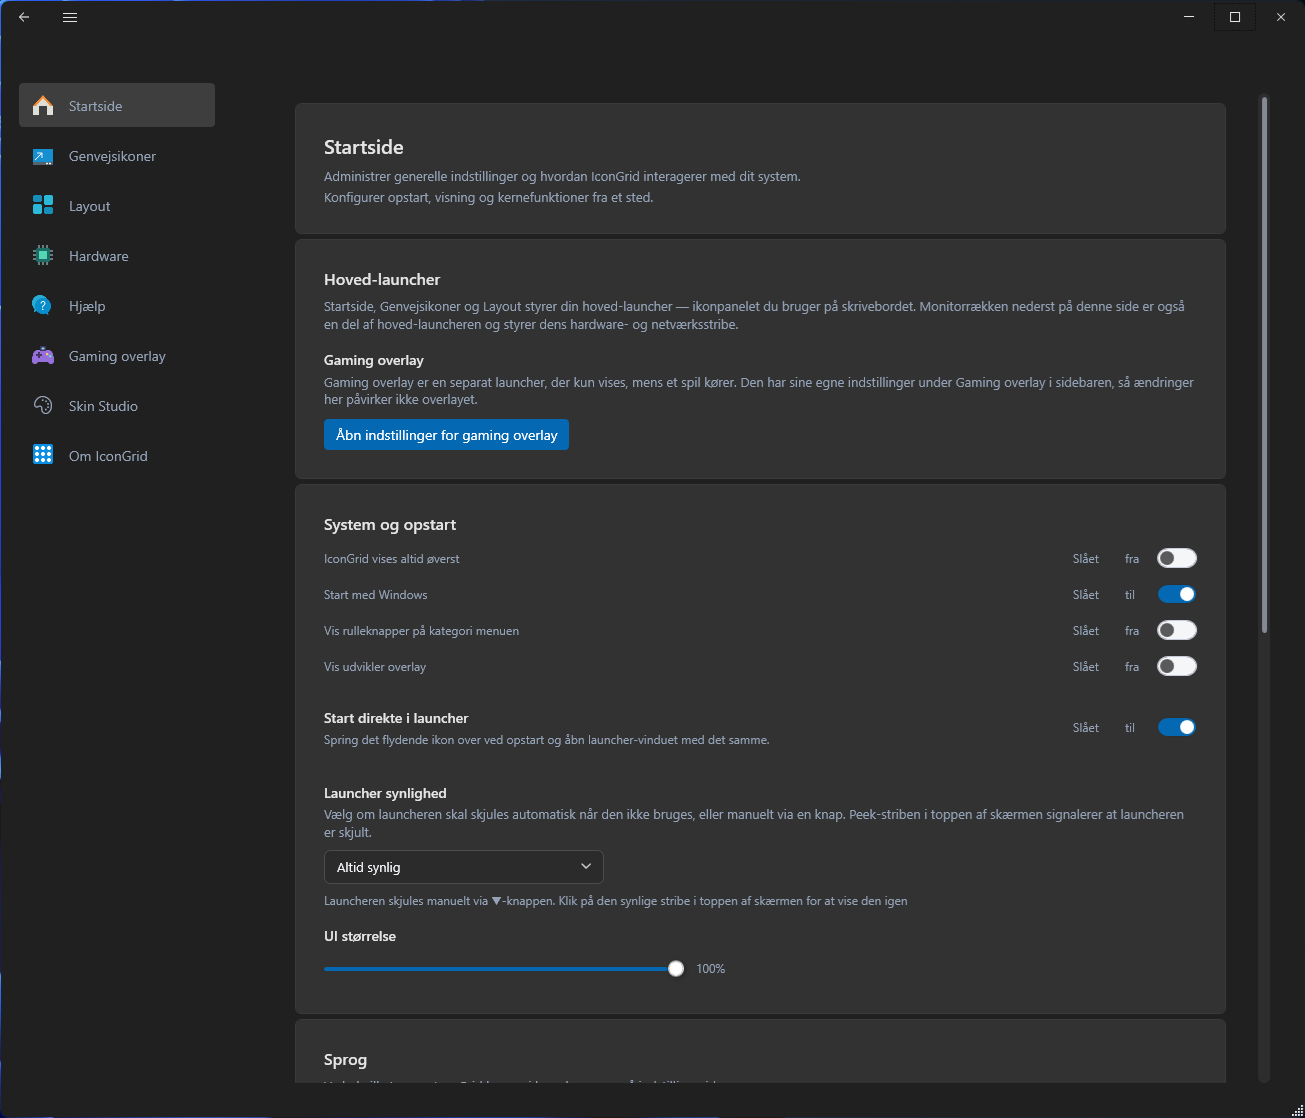
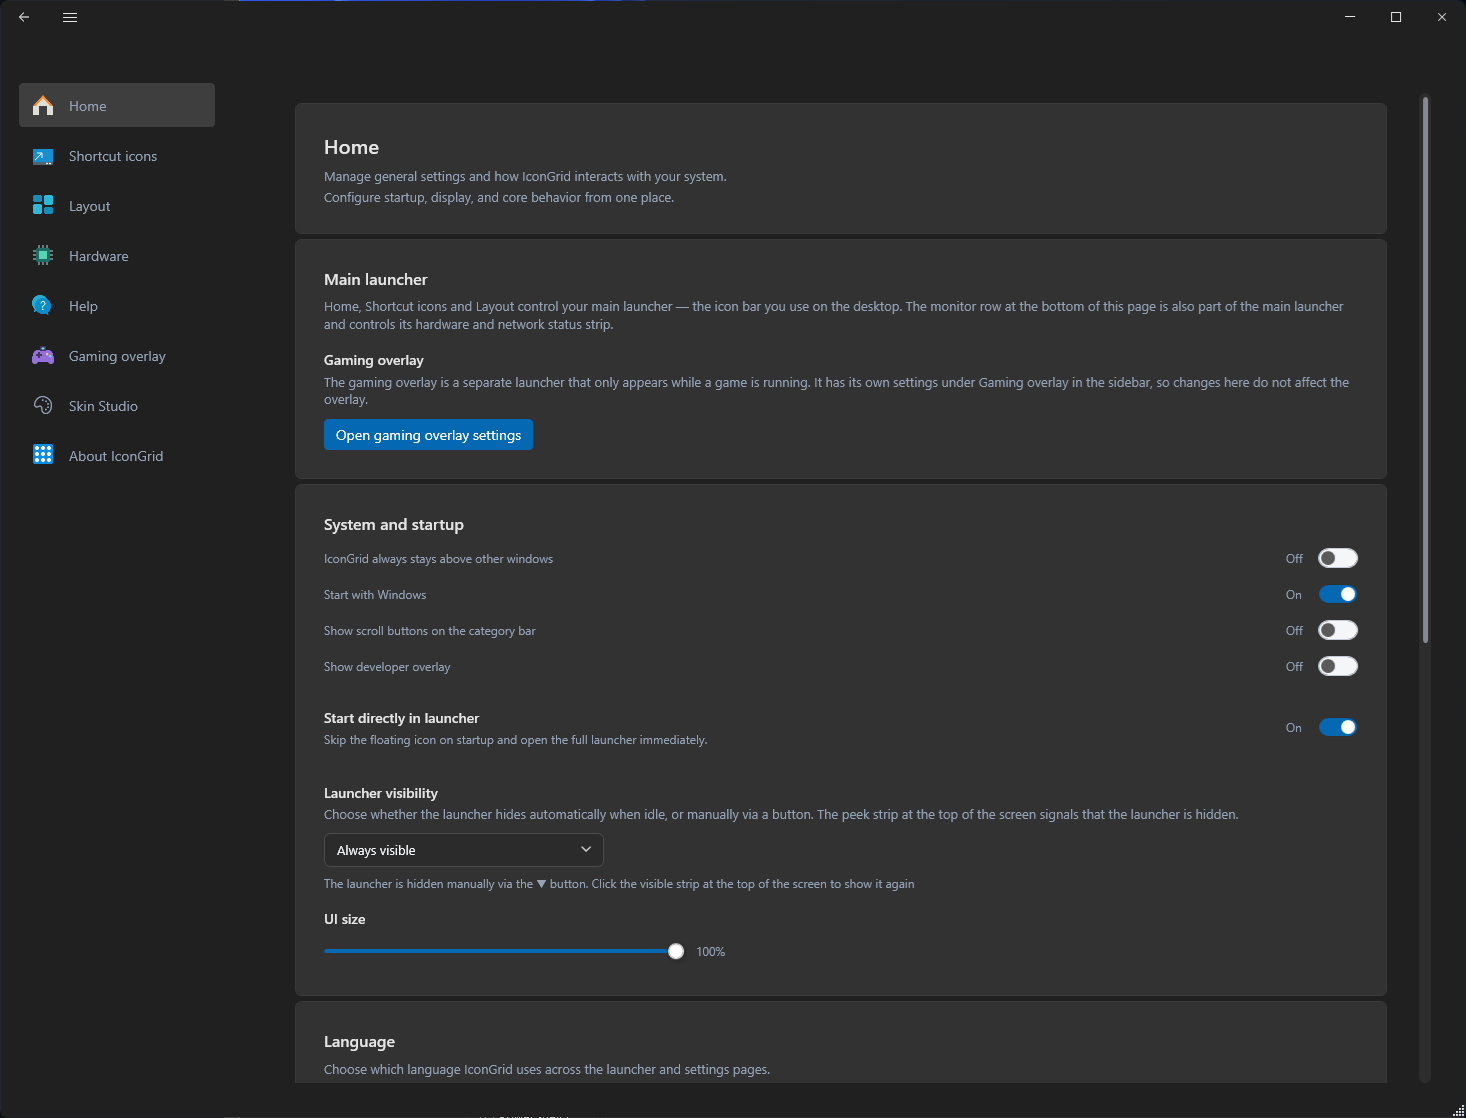
docs: add screenshots for launcher and settings pages

diff --git a/README.md b/README.md
@@ -8,8 +8,7 @@ IconGrid is a Windows launcher, hardware control center, and desktop overlay bui
 
 ## Main Launcher
 
-<!-- TODO: Screenshot — Full launcher with shortcuts and live monitor strip -->
-<!-- Replace: Assets/git-img/IconGrid-full.png -->
+![IconGrid main launcher](Assets/git-img/IconGrid.png)
 
 - `Views/Launcher/MainWindow.xaml` is the main launcher shell containing the logo area, live monitor strip (CPU / GPU / ping / network), tab bar, shortcut grid, idle hide button, and settings entry point.
 - Shortcut icons are fully drag-and-drop manageable with right-click context menus (rename, change icon, run as admin, copy path, remove).
@@ -64,8 +63,13 @@ Shortcut icons can be shown in two view modes, controlled by a toggle on the Gen
 
 A single shared **icon size** slider (82%–150%) applies to both views. The 82% floor guarantees carousel icons never clip, since the viewport height is derived from the scale.
 
-<!-- TODO: Screenshot — Carousel view with 4 icons visible + horizontal scrollbar -->
-<!-- Replace: Assets/git-img/IconGrid-carousel.png -->
+![Shortcut icons settings](Assets/git-img/Shortcut-icons.png)
+
+### Layout presets
+
+![IconGrid Layout settings](Assets/git-img/Layout.png)
+
+IconGrid can arrange open windows into a saved layout and run it directly from the Layout page. Choose a default layout, run it now, save the current arrangement, skip minimized windows, limit the arrangement to the active screen, or reserve a fixed slot for the launcher.
 
 ### Settings window
 
@@ -90,6 +94,8 @@ A single shared **icon size** slider (82%–150%) applies to both views. The 82%
 - `Views/Launcher/GamingOverlayWindow.xaml` is a compact always-on-top monitor designed for in-game use.
 - The overlay shows live FPS, CPU, GPU, ping, and network stats in a single-row shell with subtle dividers for readability.
 - `Download` / `Upload` bandwidth stats are intentionally removed from the overlay and remain only on the main launcher monitor row.
+
+![Gaming Overlay settings page](Assets/git-img/Gaming-overlay-main.png)
 
 ### Default position
 
@@ -142,6 +148,8 @@ This applies to games launched both **from IconGrid** and **externally** (Steam,
 
 `Views/Settings/Pages/SkinStudioPage.xaml` is a dedicated skin editor for the gaming overlay.
 
+![Skin Studio](Assets/git-img/Skin-studio.png)
+
 - Start from a preset or customize colours, fonts, divider style, and corner radius with a live preview.
 - Import a screenshot or game key art to extract a starting palette locally — images are never uploaded.
 - Use the module builder and blueprint JSON to add, remove, reorder, and configure overlay modules and layers.
@@ -153,6 +161,8 @@ This applies to games launched both **from IconGrid** and **externally** (Steam,
 ## Hardware tools
 
 The **Hardware** page combines system diagnostics with GPU control. Sensor data comes from the elevated hardware-monitor agent (`LibreHardwareMonitorLib`, NVIDIA NVML, and PawnIO where supported). GPU control features require an NVIDIA card; undervolt profile switching additionally requires MSI Afterburner with saved profiles.
+
+![IconGrid Hardware page](Assets/git-img/Hardware.png)
 
 ### System diagnostics
 
